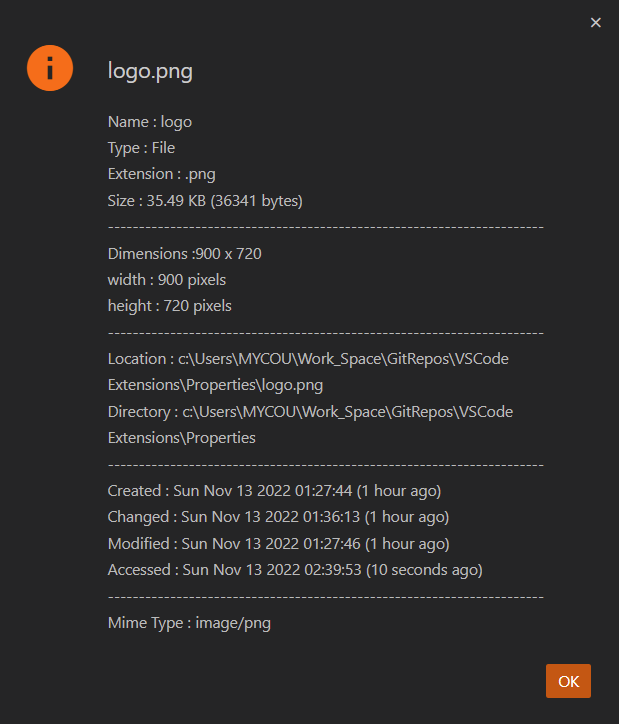
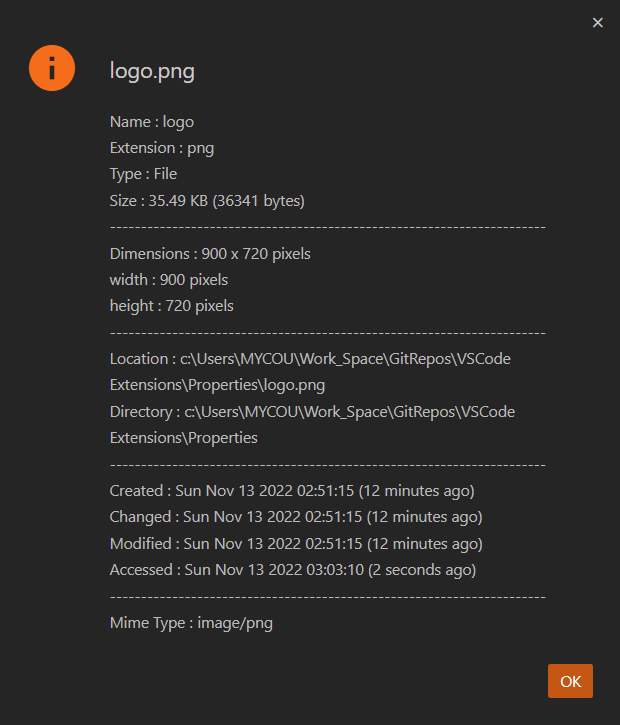
fix: Typo fix

diff --git a/src/extension.ts b/src/extension.ts
@@ -30,14 +30,14 @@ export function activate(context: vscode.ExtensionContext) {
 
 			const baseDetails =
 				`Name      : ${name}
+				 Extension : ${extension.replace(".", "")}
 				 Type      : ${type}
-				 Extension : ${extension}
 				 Size      : ${size}`;
 
 			const dimensionDetails = dimensions ?
-				`Dimensions :${dimensions?.width} x ${dimensions?.height}
-				 width : ${dimensions?.width} pixels
-				 height : ${dimensions?.height} pixels` : "";
+				`Dimensions : ${dimensions?.width} x ${dimensions?.height} pixels
+				 width      : ${dimensions?.width} pixels
+				 height     : ${dimensions?.height} pixels` : "";
 
 			const locationDetails =
 				`Location  : ${args.fsPath}

diff --git a/CHANGELOG.md b/CHANGELOG.md
@@ -1,9 +1,9 @@
 # Change Log
 
-All notable changes to the "properties" extension will be documented in this file.
+## [v2.0.0]
 
-Check [Keep a Changelog](http://keepachangelog.com/) for recommendations on how to structure this file.
+- Typo fix
 
-## [Unreleased]
+## [v1.0.0]
 
 - Initial release
